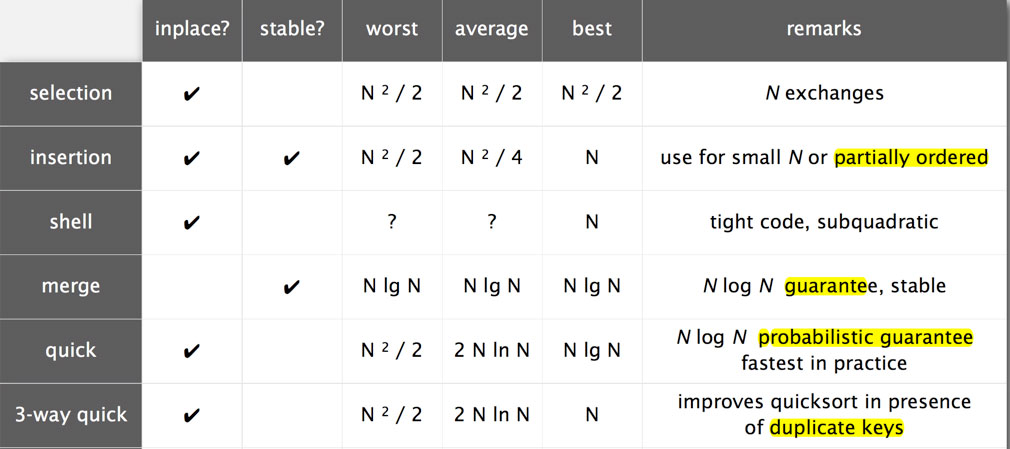
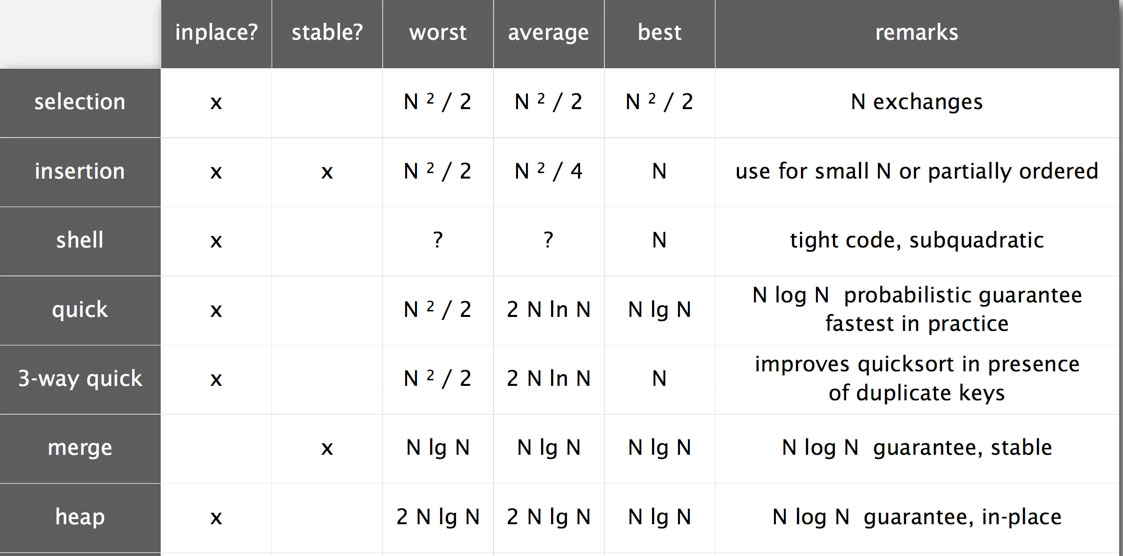
heap

diff --git a/chapterHeap.tex b/chapterHeap.tex
@@ -2,7 +2,22 @@
 
 
 \section{Introduction}
-Queue, Stack
+Heap-ordered. Binary heap is one of the implementations of Priority Queue (ADT). 
+
+Basic options:
+\begin{enumerate}
+\item sink()/ sift\_down() - recursive
+\item swim()/ sift\_up() - recursive
+\item build()/ heapify() - bottom-up sink()
+\end{enumerate}
+\section{Implementation}
+The self-implemented binary heap's index usually starts at 1 rather than 0. 
+\begin{figure}[hbtp]
+\centering
+\subfloat{\includegraphics[scale=.80]{heap_repr}}
+\caption{Heap representation}
+\label{fig:heap} 
+\end{figure}
 
 \section{Python heapq}
 Python only has built in min-heap. To use max-heap, you can: 
@@ -29,6 +44,13 @@ Normally the deletion by value in Python is $O(n)$, to achieve $O(\lg n)$ we can
 while heap and heap[0].deleted:
     heapq.heappop(heap)
 \end{python}
-\subsection{Summarizing properties}
+\subsection{Complexity}
+Building a heap is O(N) rather than $O(N \lg N)$.
 
-
+Proof:
+\begin{eqnarray*}
+&& \because \sum_{i=0}^{+\infty} {ix^i} =\frac{x}{(1-x)^2} \\
+&& \therefore \sum_{h=0}^{\lfloor\lg n\rfloor}{\Big\lceil\frac{n}{2^{h+1}}\Big\rceil O(h)} = O\Bigg(n\sum_{h=0}^{\lfloor\lg n\rfloor}{\frac{h}{2^h}}\Bigg) \\
+&& \therefore \sum_{h=0}^{\lfloor\lg n\rfloor}{\Big\lceil\frac{n}{2^{h+1}}\Big\rceil
+O(h)} = O(n)
+\end{eqnarray*}

diff --git a/chapterSort.tex b/chapterSort.tex
@@ -19,6 +19,7 @@ List of general algorithms:
 \begin{enumerate}
 \item $|A_p|..\leq..|..unseen..|..\geq..|$ maintain the 3 subarrays.
 \end{enumerate}
+\item Heap sort: compared to quick sort it is guaranteed $O(N \lg N)$, compared to merge sort it is $O(1)$ extra space. 
 \end{enumerate}
 
 \section{Algorithms}
@@ -123,6 +124,7 @@ Algorithms:
 \item Selection sort
 \item Shell sort
 \item Quick sort
+\item Heap sort
 \end{enumerate}
 \end{enumerate}
 \textbf{Long-distance swap} operation is the key to find the unstable case during sorting. 
@@ -149,6 +151,7 @@ Algorithms:
 \item Distinct keys?
 \item Need guaranteed performance?
 \item Linked list or arrays?
+\item Caching system? (reference to neighboring cells in the array? 
 \item Usually randomly ordered array?
 (or paritally sorted?)\item Parallel?
 \item Deterministic?

diff --git a/preface.tex b/preface.tex
@@ -13,7 +13,7 @@ This quicksheet has three significant advantages:
 \begin{enumerate}
 \item Quick recall
 \item Compact knowledge representation
-\item 
+\item Mathematical notations to increase information entropy per unit word. 
 \end{enumerate}
 
 \vspace{\baselineskip}
